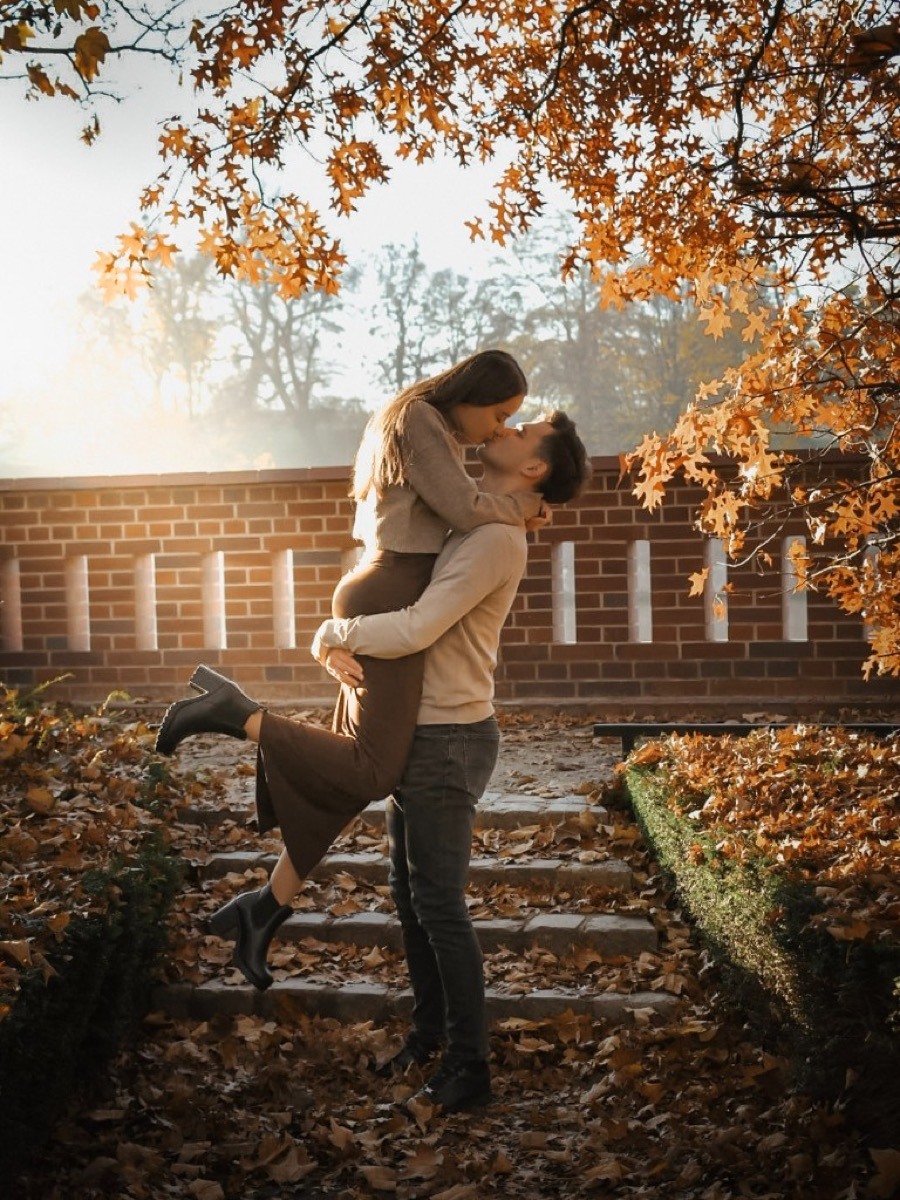
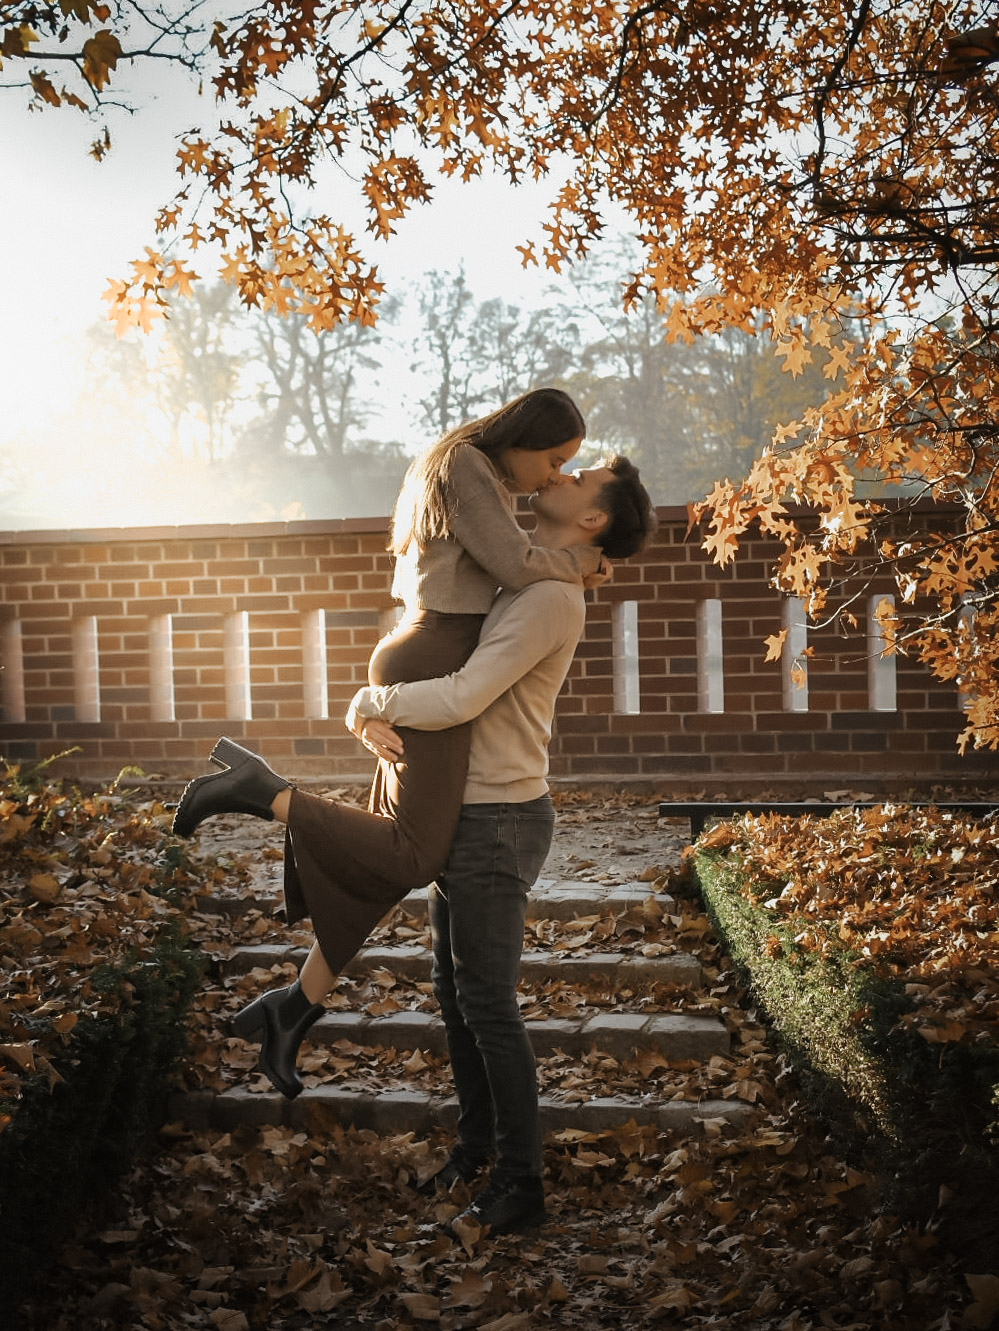
last fixes, real google disk and new photos

diff --git a/index.html b/index.html
@@ -39,7 +39,7 @@
       </div>
       <div class="envelope__letter">
         <p>Serdecznie zapraszamy</p>
-        <p class="envelope__names">Natalka &amp; Wojtek</p>
+        <p class="envelope__names">Natalka <span class="amp">&amp;</span> Wojtek</p>
       </div>
       <div class="envelope__flap-pivot" aria-hidden="true">
         <div class="envelope__flap"></div>
@@ -65,7 +65,7 @@
         <a href="#organizacja">Organizacja</a>
         <a href="#kontakt">Kontakt</a>
         <a href="#lokalizacja">Lokalizacja</a>
-        <a class="site-nav__external js-photos-drive" href="https://drive.google.com" target="_blank" rel="noopener noreferrer">Galeria na Dysku</a>
+        <a class="site-nav__external js-photos-drive" href="https://drive.google.com/drive/folders/1ZTkmhqXaj9EIh5sSfyh6UvoJeyC1Z_O9?usp=sharing" target="_blank" rel="noopener noreferrer">Galeria na Dysku</a>
       </nav>
     </div>
   </header>
@@ -153,7 +153,7 @@
             <div class="profile-card__img-wrap">
               <img class="profile-card__img" src="images/profile-wojtek.png" width="200" height="200" alt="Wojciech" loading="lazy" />
             </div>
-            <h3 class="profile-card__name">Wojtek Draciak</h3>
+            <h3 class="profile-card__name">Wojtek Druciak</h3>
             <p class="profile-card__text">Wojtek jest spokojną, towarzyską i pomocną osobą. Wolny czas najchętniej spędza z rodziną i przyjaciółmi. Interesuje się wieloma rzeczami — głównie tymi, które akurat przyciągną jego uwagę, lubi wyzwania i stara się stawiać poprzeczkę coraz wyżej. Na co dzień pracuje jako architekt, rozwijając swoje umiejętności oraz poznając nowe technologie i oprogramowanie.</p>
           </article>
         </div>
@@ -405,7 +405,7 @@
         <div class="drive-qr">
           <a
             class="drive-qr__link js-photos-drive"
-            href="https://drive.google.com"
+            href="https://drive.google.com/drive/folders/1ZTkmhqXaj9EIh5sSfyh6UvoJeyC1Z_O9?usp=sharing"
             target="_blank"
             rel="noopener noreferrer"
             aria-label="Otwórz folder na Google Dysku (ten sam adres co kod QR)"
@@ -422,12 +422,8 @@
           </a>
         </div>
         <div class="section__actions section__actions--tight">
-          <a class="btn js-photos-drive" id="link-drive" href="https://drive.google.com" target="_blank" rel="noopener noreferrer">Otwórz folder na Dysku</a>
+          <a class="btn js-photos-drive" id="link-drive" href="https://drive.google.com/drive/folders/1ZTkmhqXaj9EIh5sSfyh6UvoJeyC1Z_O9?usp=sharing" target="_blank" rel="noopener noreferrer">Otwórz folder na Dysku</a>
         </div>
-        <p class="drive-query" id="drive-query-note" hidden>
-          <span class="drive-query__label">Kod zapytania (query):</span>
-          <code class="drive-query__code" id="drive-query-value"></code>
-        </p>
       </div>
     </section>
 
@@ -458,7 +454,7 @@
           <article class="place-card js-reveal">
             <h3 class="place-card__title">Wesele i poprawiny</h3>
             <p class="place-card__when">Sobota – niedziela, 20–21 czerwca 2026</p>
-            <p class="place-card__hours">Sob. 16:00 – 4:00 &nbsp;|&nbsp; Niedz. 13:00 – 19:00 (poprawiny)</p>
+            <p class="place-card__hours">Sob. 16:00 – 4:00 &nbsp;|&nbsp; Niedz. 12:30 – 21:00 (poprawiny)</p>
             <p class="place-card__where">Sala Pałacowa, <strong>Hotel Jasek</strong>, ul. Sułowska 39, Wrocław</p>
             <a class="place-card__map" target="_blank" rel="noopener noreferrer" href="https://www.google.com/maps/search/?api=1&amp;query=Hotel+Jasek+Su%C5%82owska+39+Wroc%C5%82aw">Dojazd</a>
           </article>
@@ -476,7 +472,7 @@
       <div class="site-footer__meta-inner">
         <span class="site-footer__meta-item">Zdjęcia z sesji jesiennej: <span class="site-footer__meta-name">Mercelina Białowąs-Orska</span></span>
         <span class="site-footer__meta-divider" aria-hidden="true">|</span>
-        <span class="site-footer__meta-item">Strona utworzona przez: <span class="site-footer__meta-name">druci</span></span>
+        <span class="site-footer__meta-item">Strona utworzona przez: <span class="site-footer__meta-name">Aleksandra Druciak</span></span>
       </div>
     </div>
   </footer>

diff --git a/css/style.css b/css/style.css
@@ -97,7 +97,12 @@ a:hover {
 }
 
 .amp {
-  font-style: italic;
+  display: inline-block;
+  font-size: 0.62em;
+  font-style: normal;
+  line-height: 1;
+  margin-inline: 0.22em 0.28em;
+  vertical-align: 0.08em;
 }
 
 /* --- Envelope full screen --- */
@@ -179,9 +184,9 @@ a:hover {
 }
 
 .envelope__wax-amp {
-  font-size: 0.7rem;
+  font-size: 0.65em;
   vertical-align: super;
-  margin: 0 0.1rem;
+  margin-inline: 0.12em;
 }
 
 /* Rotation on a separate wrapper: clip-path + rotateX on one element breaks backface in Chrome/WebKit */

diff --git a/config.js b/config.js
@@ -1,7 +1,8 @@
 /* Public in the browser after deploy (e.g. GitHub Pages) — no server-side secrets */
 window.WEDDING_CONFIG = {
   /** Full share link to the Google Drive folder */
-  PHOTOS_DRIVE_URL: "https://drive.google.com",
+  PHOTOS_DRIVE_URL:
+    "https://drive.google.com/drive/folders/1ZTkmhqXaj9EIh5sSfyh6UvoJeyC1Z_O9?usp=sharing",
   /**
    * Folder ID for the `id` query parameter (segment after /folders/ in the share URL).
    * Optional if the ID can be inferred from PHOTOS_DRIVE_URL.

diff --git a/js/main.js b/js/main.js
@@ -5,7 +5,8 @@
   "use strict";
 
   const config = window.WEDDING_CONFIG || {
-    PHOTOS_DRIVE_URL: "https://drive.google.com",
+    PHOTOS_DRIVE_URL:
+      "https://drive.google.com/drive/folders/1ZTkmhqXaj9EIh5sSfyh6UvoJeyC1Z_O9?usp=sharing",
     PHOTOS_DRIVE_FOLDER_ID: "",
   };
 
